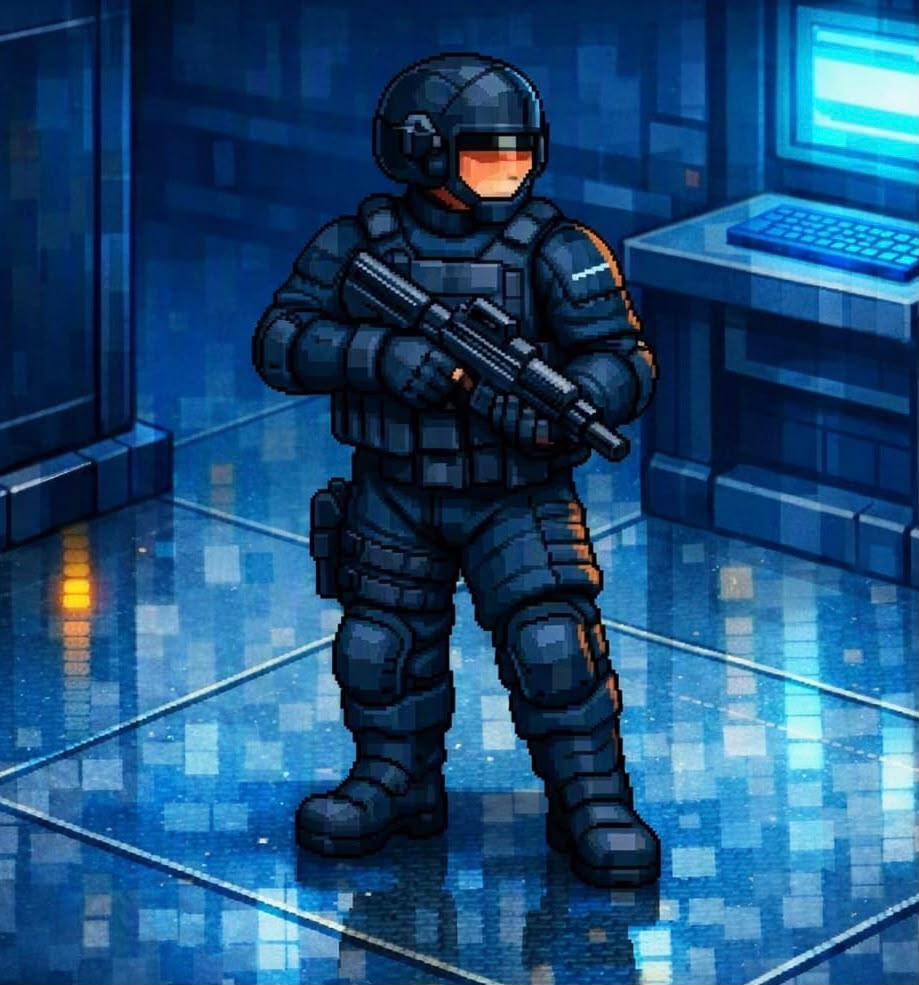
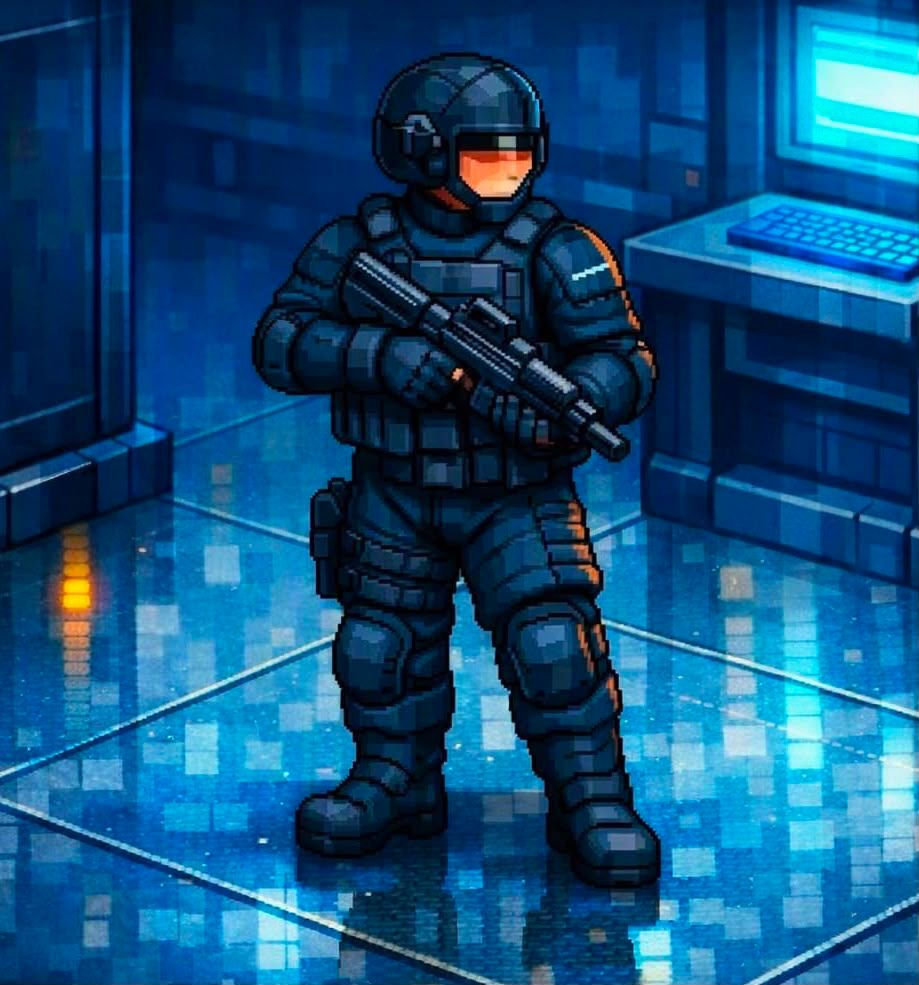
new images Co-authored-by: VibuK <VibuK@users.noreply.github.com> Co-authored-by: jishnusrinath-dev <jishnusrinath-dev@users.noreply.github.com>

diff --git a/cybervault.html b/cybervault.html
@@ -244,26 +244,26 @@
 
 
 <div class="sitemap normalcontainer">
-    <h1>Website Sitemap</h1>
-    <div class="sitemap-links">
-        <a href="index.html">Project Cyber</a>
-        <a href="cybervault.html">CyberVault</a>
-        <a href="phish_or_fish.html">Phish or Fish</a>
-        <a href="securityspace.html">Security Space</a>
-        <a href="checkout.html">Checkout</a>
-    </div>
-</div>
-    
+            <h2>Website Sitemap</h2>
+            <a href="index.html">Home</a>
+            <a href="cybervault.html">CyberVault</a>
+            <a href="phish_or_fish.html">Phish or Fish</a>
+            <a href="securityspace.html">Security Space</a>
+            <a href="aboutus.html">About Us</a>
+            <a href="checkout.html">Checkout</a>
+            <a href="disclaimer.html">Disclaimer</a>
+        </div>
+            
 
-<footer>
-<p>Connect with us by purchasing our package:
-    <ul>
-        CyberVault<br>
-        Phish or Fish<br>
-        Security Space<br>
-    </ul>
-</p>
-</footer>    
-<script src="theme.js"></script> <!-- Calls for the theme script -->
-</body>
+        <footer>
+        <p>Connect with us by purchasing our package:</p>
+            <p>
+                CyberVault<br>
+                Phish or Fish<br>
+                Security Space<br>
+            </p>
+        </footer>    
+        <script src="theme.js"></script> <!-- Calls for the theme script -->
+    </body> 
+
 </html>

diff --git a/phish_or_fish.html b/phish_or_fish.html
@@ -219,11 +219,11 @@
 
 <footer>
 <p>Connect with us by purchasing our package:
-    <ul>
+    <p>
         CyberVault<br>
         Phish or Fish<br>
         Security Space<br>
-    </ul>
+    </p>
 </p>
 </footer>    
 <script src="theme.js"></script> <!-- Calls for the theme script -->

diff --git a/styles.css b/styles.css
@@ -423,10 +423,11 @@ ul {
 
 .securitycardwrapper {
     flex-wrap: wrap;
+    justify-content: center;
 }
 
 .featurecard {
-    width: 45%;
+    width: 42%;
     transition: 0.3s;
 }
 
